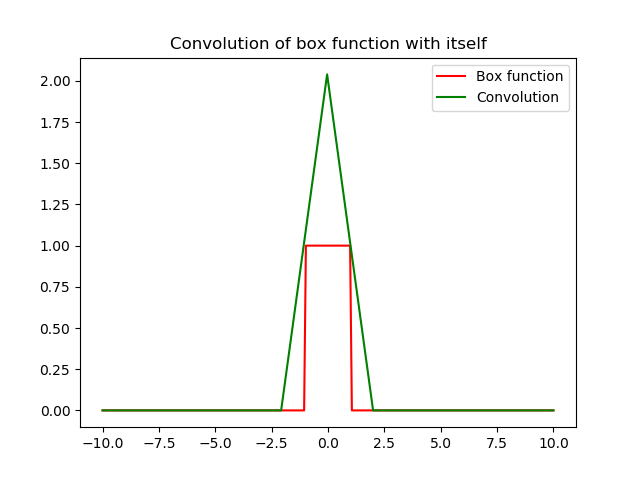
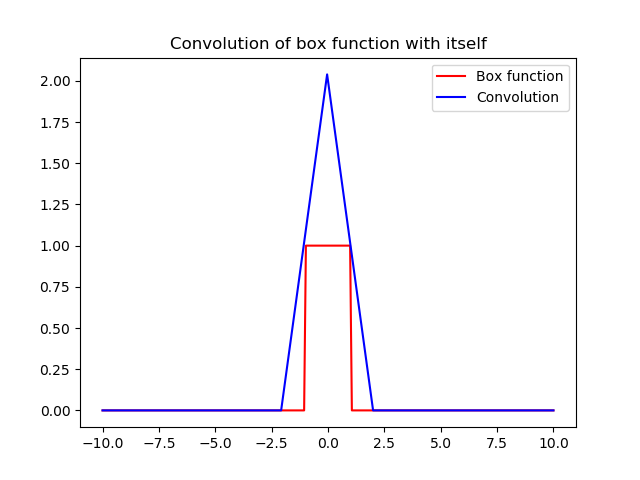
Computation assigment completed

diff --git a/Assignment_3/Qn_9.py b/Assignment_3/Qn_9.py
@@ -28,7 +28,7 @@ x_b = int(3*N/2)
 
 f_box = [f(i) for i in x]
 plt.plot(x, f_box, 'r', label='Box function')
-plt.plot(x, np.real(conv[x_a:x_b]), 'g', label='Convolution')
+plt.plot(x, np.real(conv[x_a:x_b]), 'b', label='Convolution')
 plt.legend()
 plt.title("Convolution of box function with itself")
 plt.show()
